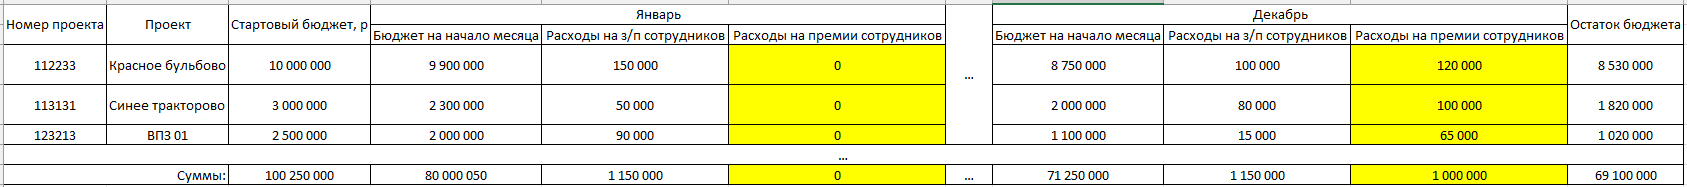
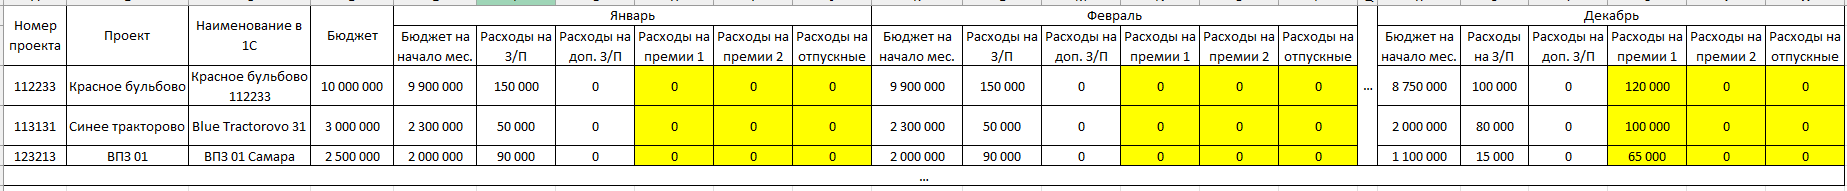
fixed many edits of technical specification

diff --git a/design/docs/algorithm/technical_specification.md b/design/docs/algorithm/technical_specification.md
@@ -36,29 +36,24 @@
 
 Сама таблица на этой странице является нередактируемой.
 ![Таблица з/п и премий сотрудников](/docs/table_salaries_bonuses_employees.png)
-Значения в таблице з/п сотрудника являются расчётными:
+Фактические значения "З/П" и "Доп. З/П" сотрудника в таблице являются расчётными:
 
-* для сотрудников на полной ставке - посчитанная з/п на руки по формуле:
-$$Salary + Additional\_ Salary,$$  
-где $Salary$ - номинальная з/п сотрудника, которая вносится на странице ["Номинальные заработные платы и премии сотрудников на руки"](#страница-номинальные-заработные-платы-и-премии-сотрудников-на-руки) в столбце "З/П";  
-$Additional\_ Salary$ - номинальная дополнительная з/п сотрудника, которая вносится на странице ["Номинальные заработные платы и премии сотрудников на руки"](#страница-номинальные-заработные-платы-и-премии-сотрудников-на-руки) в столбце " Доп. З/П";
-* для сотрудников на неполной ставке - посчитанная з/п на руки за месяц с учётом отработанных часов, она рассчитывается таким образом:  
-$$\frac{(Salary + Additional\_ Salary) \cdot Hours_{employee\_ month}}{Normal\_ hours_{month}},$$  
+* для сотрудников на полной ставке - З/П и Доп. З/П, которые вносятся на странице ["Номинальные заработные платы и премии сотрудников на руки"](#страница-номинальные-заработные-платы-и-премии-сотрудников-на-руки) в столбцы "З/П" и "Доп. З/П" соответственно;  
+* для сотрудников на неполной ставке - посчитанная З/П или Доп. З/П за месяц с учётом отработанных часов, которые рассчитываются таким образом:  
+$$\frac{(Salary\ or\ Additional\_ Salary) \cdot Hours_{employee\_ month}}{Normal\_ hours_{month}},$$  
 где $Salary$ - номинальная з/п сотрудника, которая вносится на странице ["Номинальные заработные платы и премии сотрудников на руки"](#страница-номинальные-заработные-платы-и-премии-сотрудников-на-руки) в столбце "З/П";  
 $Additional\_ Salary$ - номинальная дополнительная з/п сотрудника, которая вносится на странице ["Номинальные заработные платы и премии сотрудников на руки"](#страница-номинальные-заработные-платы-и-премии-сотрудников-на-руки) в столбце " Доп. З/П";  
 $Hours_{employee\_ month}$ - кол-во отработанных часов сотрудника за данный месяц;  
 $Normal\_ hours_{month}$ - кол-во рабочих часов за данный месяц для 40 ч. рабочей недели согласно производственному календарю.
 
-Значения премий считаются по формуле:
-$$Bonus1 + Bonus2,$$
-где $Bonus1$ - сумма премии 1 сотрудника, которая вносится на [странице "Номинальные заработные платы и премии сотрудников на руки"](#страница-номинальные-заработные-платы-и-премии-сотрудников-на-руки) в столбце "Премия 1";  
-$Bonus2$ - сумма премии 2 сотрудника, которая вносится на странице "Номинальные заработные платы и премии сотрудников на руки" в столбце "Премия 2".
-Значения отпускных отображаются ровно такими, какими их вводят на странице ["Номинальные заработные платы и премии сотрудников на руки"](#страница-номинальные-заработные-платы-и-премии-сотрудников-на-руки).
+Значения премий (Премия 1 и Премия 2) заполняются автоматически значениями со [страницы "Номинальные заработные платы и премии сотрудников на руки"](#страница-номинальные-заработные-платы-и-премии-сотрудников-на-руки) из столбцов "Премия 1" и "Премия 2" соответственно.
+
+Значения отпускных отображаются ровно такими, какими их вводят на странице ["Номинальные заработные платы и премии сотрудников на руки"](#страница-номинальные-заработные-платы-и-премии-сотрудников-на-руки) в столбце "Отпускные".
 
 Последним столбцом в таблице является средний доход сотрудника в месяц за показываемый период времени, который автоматически рассчитывается:
 $$Sum \_ salaries + Sum \_ bonuses + Sum \_ holiday \_ finance,$$  
-где $Sum \_ salaries$ - сумма фактических з/п за этот период времени;  
-$Sum \_ bonuses$ - сумма премий за этот период времени;  
+где $Sum \_ salaries$ - сумма фактических З/П и доп. З/П за этот период времени;  
+$Sum \_ bonuses$ - сумма премий 1 и премий 2 за этот период времени;  
 $Sum \_ holiday \_ finance$ - сумма отпускных за этот период времени.
 
 Внизу справа есть кнопки экспорта данной таблицы в формате xlsx, pdf: ![Footer export](/docs/footer_export.png)
@@ -73,11 +68,12 @@ $Sum \_ holiday \_ finance$ - сумма отпускных за этот пер
 
 [Данная страница](https://www.figma.com/design/InItq3Ywyfz5n2juZiQldq/Finance-projects-Redmine-Plugin?node-id=169-2) уже представляет собой редактируемую таблицу з/п на руки в месяц и премий на руки за месяц.
 Фильтры и сортировки в таблице сохраняются как на предыдущей странице; есть возможность их изменения.
-Каждое значение з/п и премии можно редактировать вручную.
-Однако в таблице значения з/п по месяцам заполняются автоматически, когда наступает каждый новый месяц. Например, на момент 31 января в таблице заполнена з/п за январь; при наступлении 1 февраля последняя указанная сумма з/п сотрудника за январь месяц автоматически записывается на з/п за февраль.
+Каждое значение З/П и премии можно редактировать вручную.
+Однако в таблице значения З/П и доп. З/П по месяцам заполняются автоматически, когда наступает каждый новый месяц.  
+Например, на момент 31 января в таблице заполнены З/П и доп. З/П за январь; при наступлении 1 февраля последние указанные суммы З/П и доп. З/П сотрудника за январь месяц автоматически записываются на З/П и доп. З/П за февраль соответственно.
 ![Редактируемая таблица з/п и премий сотрудников](/docs/edit_table_salaries_bonuses_employees.png)
 Столбец "Средний доход за данный период" отсутствует.
-Значения з/п для тех, кто на полной ставке и на неполной ставке, указываются такие, словно сотрудник работает на полной ставке.
+Значения З/П для тех, кто на полной ставке и на неполной ставке, указываются такие, словно сотрудник работает на полной ставке.
 Для этой страницы дополнительно справа есть кнопка:
 
 * Сохранить.
@@ -88,36 +84,62 @@ $Sum \_ holiday \_ finance$ - сумма отпускных за этот пер
 
 Представляет собой [страницу](https://www.figma.com/design/InItq3Ywyfz5n2juZiQldq/Finance-projects-Redmine-Plugin?node-id=48-2) с информацией в табличном виде, где показываются данные бюджетов проектов и их подпроектов.
 Все значения в данной таблице являются нередактируемыми.
-Первые столбцы являются атрибутами "Проектов", например, "Номер проекта", "Проект".
-Далее идёт столбец под названием "Стартовый бюджет", который является стартовым бюджетом проекта на старте этого проекта.
-Последующие столбцы идут по 3 штуки на каждый месяц:
+![Таблица финансов проектов](/docs/table_finances_projects.png)
+Первые столбцы являются атрибутами "Проектов", например, "Номер проекта", "Проект" и "Наименование в 1С".
+Далее идёт столбец под названием "Бюджет", который автоматически вычисляется:
+$$Start\_ budget + All\_ total\_ incomes,$$
+где $Start\_ budget$ - стартовый бюджет проекта;  
+$All\_ total\_ incomes$ - сумма всех иных статей доходов проекта на текущий момент.
 
-* Бюджет на начало месяца - вычисляется автоматически: $$Budget + Total\_ incomes - Total\_ expenses,$$  
-где $Budget$ - стартовый бюджет проекта;  
-$Total\_ incomes$ - сумма всех иных доходов проекта на момент начала данного месяца;  
-$Total\_ expenses$ - сумма всех трат проекта на момент начала данного месяца;
-* Расходы на з/п сотрудников - вычисляется автоматически сумма расходов на з/п сотрудников, которые имеют затраченное время на проекте в данном месяце:
+Далее идёт по 5 столбцов на каждый месяц в выбранном временном диапазоне:
+
+* Бюджет на начало мес. - бюджет проекта на начало месяца, который вычисляется автоматически:
+$$Start\_ budget + Total\_ incomes - Total\_ expenses,$$  
+где $Start\_ budget$ - стартовый бюджет проекта;  
+$Total\_ incomes$ - сумма всех иных статей доходов проекта на момент начала данного месяца;  
+$Total\_ expenses$ - сумма всех статей расходов проекта на момент начала данного месяца;
+* Расходы на З/П - вычисляется автоматически сумма статей расходов на з/п сотрудников, которые имеют затраченное время на проекте в данном месяце:
   * для сотрудников на полной ставке по формуле: $$\frac{Salary \cdot Hours_{project\_ month}}{Hours_{month}},$$  
-  где $Salary$ - номинальная з/п сотрудника;  
+  где $Salary$ - номинальная з/п сотрудника (из столбца "З/П" со страницы ["Номинальные заработные платы и премии сотрудников на руки"](#страница-номинальные-заработные-платы-и-премии-сотрудников-на-руки));  
   $Hours_{project\_ month}$ - кол-во отработанных часов сотрудника за данный месяц на проекте;  
   $Hours_{month}$ - кол-во отработанных часов сотрудника за данный месяц;
   * для сотрудников на неполной ставке по формуле: $$\frac{Salary \cdot Hours_{project\_ month}}{Normal\_ hours_{month}},$$  
-  где $Salary$ - номинальная з/п сотрудника, которая вносится на странице "Номинальные заработные платы и премии сотрудников на руки";  
+  где $Salary$ - номинальная з/п сотрудника (из столбца "З/П" со страницы ["Номинальные заработные платы и премии сотрудников на руки"](#страница-номинальные-заработные-платы-и-премии-сотрудников-на-руки));  
   $Hours_{project\_ month}$ - кол-во отработанных часов сотрудника за данный месяц на проекте;  
   $Normal\_ hours_{month}$ - кол-во рабочих часов за данный месяц для 40 ч. рабочей недели согласно производственному календарю;
-* Расходы на премии сотрудников - кол-во расходов в месяце данного проекта на выделение премий сотрудникам; задаваётся вручную на странице "Редактирование финансов проектов".
+* Расходы на доп. З/П - полностью аналогично "Расходам на З/П" для столбца "Доп. З/П" со страницы ["Номинальные заработные платы и премии сотрудников на руки"](#страница-номинальные-заработные-платы-и-премии-сотрудников-на-руки)
+* Расходы на премии 1 - сумма статей расходов на премии (Премии 1) сотрудников в месяце данного проекта - будет вноситься вручную пользователем;
+* Расходы на премии 2 - сумма статей расходов на премии (Премии 2) сотрудников в месяце данного проекта - будет вноситься вручную пользователем;
+* Расходы на отпускные - сумма статей расходов на отпускные сотрудников в месяце данного проекта - будет вноситься вручную пользователем;
 
-Последний столбец "Остаток бюджета" является значением остатка бюджета проекта на конец выбранного временного диапазона, т.е. на конец последнего месяца во временном диапазоне.
+Последними столбцами после всех месяце выбранного временной диапазона будут:
 
-В таблице можно:
+* Остаток бюджета на конец диапазона - остаток средств бюджета проекта на момент конца выбранного временного промежутка:
+$$Start\_ budget + Total\_ incomes_{end\_ time\_ interval} - Total\_ expenses_{end\_ time\_ interval},$$  
+где $Start\_ budget$ - стартовый бюджет проекта;  
+$Total\_ incomes_{end\_ time\_ interval}$ - сумма всех иных статей доходов проекта на момент конца выбранного временного промежутка;  
+$Total\_ expenses_{end\_ time\_ interval}$ - сумма всех статей расходов проекта на момент конца выбранного временного промежутка;
+* Расходы в диапазоне - сумма статей расходов за выбранный временной промежуток;
+* Итоговый остаток бюджета - остаток средств бюджета проекта на текущий момент:
+$$Start\_ budget + All\_ total\_ incomes - All\_ total\_ expenses,$$
+где $Start\_ budget$ - стартовый бюджет проекта;  
+$All\_ total\_ incomes$ - сумма всех иных статей доходов проекта на текущий момент;
+$All\_ total\_ expenses$ - сумма всех статей расходов проекта на текущий момент;
+* Итого затраты - сумма всех статей расходов проекта на текущий момент.
 
-* отфильтровать по месяцам (диапазон по умолчанию - текущий календарный год);
+В таблице можно через кнопки "Фильтры" и "Настройки" вверху страницы:
+
+* выбрать рассматриваемый временной промежуток (промежуток по умолчанию - текущий календарный год);
 * упорядочить значения списка проектов и отфильтровать список проектов и подпроектов;
 * выбрать какие столбцы атрибутов "Проектов" будут показываться в таблице (Номер проекта, Проект, Наименование в 1С и т.п.).
-В таблице отображаются как отдельные проекты, так и проекты с подпроектами (подпроекты вложены в родительский проект).
+
+Необходимо обеспечить ширины столбцов по умолчанию такие, чтобы на экране без прокрутки отображались данные по 2-3 месяцам.
+
+В таблице отображаются как отдельные проекты, так и проекты с подпроектами.
 
 Правила для проектов (родительских проектов) с подпроектами:
 
+* первым идёт родительский проект, а сразу после его подпроекты;
 * сгруппированы вместе;
 * значения столбцов "Стартовый бюджет", "Бюджет на начало месяца", "Расходы на з/п сотрудников" и др. для строки родительского проекта получаются суммированием соответствующих значений строк подпроектов данного родительского проекта.
 
@@ -129,24 +151,35 @@ $Total\_ expenses$ - сумма всех трат проекта на момен
 
 Внизу справа есть кнопки экспорта данной таблицы в формате xlsx, pdf.
 
-При нажатии на кнопку "Редактировать финансы проектов" открывается [страница "Редактирование финансов проектов"](https://www.figma.com/design/InItq3Ywyfz5n2juZiQldq/Finance-projects-Redmine-Plugin?node-id=191-14).
+При нажатии на кнопку "Редактировать финансы проектов" открывается страница "Редактирование финансов проектов".
 
-На странице "Редактирование финансов проектов" часть значений в таблице можно редактировать, а именно столбцы "Расходы на премии сотрудников". Данные ячейки выделяются другим цветом. Остальные ячейки заблокированы для изменения.
-Справа появляется дополнительная кнопка "Сохранить".
+### Страница "Редактирование финансов проектов"
 
-При нажатии на кнопку "Добавить доход в бюджет проекта" поверх открывается [всплывающее окно](https://www.figma.com/design/InItq3Ywyfz5n2juZiQldq/Finance-projects-Redmine-Plugin?node-id=213-2), в котором можно внести дополнительный доход в бюджет проекта. Для этого в появившемся окне есть следующие поля:
+Представляет собой [страницу](https://www.figma.com/design/InItq3Ywyfz5n2juZiQldq/Finance-projects-Redmine-Plugin?node-id=191-14) с таблицей, где часть значений в таблице можно редактировать.
+![Таблица редактирования финансов проектов](/docs/edit_table_finances_projects.png)
+
+Редактируемыми значениями являются выделенные желтым цветом значения, а точнее:
+
+* Расходы на премии 1;
+* Расходы на премии 2;
+* Расходы на отпускные.
+
+Остальные значения заблокированы для изменения.
+Справа имеется дополнительная кнопка "Сохранить".
+
+При нажатии на кнопку "Добавить статью дохода в бюджет проекта" поверх открывается [всплывающее окно](https://www.figma.com/design/InItq3Ywyfz5n2juZiQldq/Finance-projects-Redmine-Plugin?node-id=213-2), в котором можно внести дополнительную статью дохода в бюджет проекта. Для этого в появившемся окне есть следующие поля:
 
 * дата выделения статьи дохода проекта - обязательное поле;
-* выбор проекта, бюджет которого пополняем - обязательное поле;
-* в описании можно оставить комментарий - обязательное поле;
-* сумма дохода - обязательное поле.
+* выбор проекта (атрибут "Проект"), бюджет которого пополняем (через раскрывающийся список + возможность ручного ввода) - обязательное поле;
+* в описании должен быть указан текст, где должен быть указан номер документа или название работ, по которому вводится статья дохода - обязательное поле, справа есть соответствующая подсказка;
+* сумма статьи дохода - обязательное поле.
 
-При нажатии на кнопку "Добавить расход бюджета проекта" поверх открывается [всплывающее окно](https://www.figma.com/design/InItq3Ywyfz5n2juZiQldq/Finance-projects-Redmine-Plugin?node-id=220-38), в котором можно внести дополнительный расход бюджета проекта. Для этого в появившемся окне есть следующие поля:
+При нажатии на кнопку "Добавить статью расхода бюджета проекта" поверх открывается [всплывающее окно](https://www.figma.com/design/InItq3Ywyfz5n2juZiQldq/Finance-projects-Redmine-Plugin?node-id=220-38), в котором можно внести дополнительную статью расхода бюджета проекта. Для этого в появившемся окне есть следующие поля:
 
 * дата выделения статьи расхода бюджета проекта - обязательное поле;
-* выбор проекта, из бюджета которого вычитаем расход - обязательное поле;
-* в описании можно оставить комментарий - обязательное поле;
-* сумма расхода - обязательное поле.
+* выбор проекта (атрибут "Проект"), из бюджета которого вычитаем расход (через раскрывающийся список + возможность ручного ввода) - обязательное поле;
+* в описании должен быть указан текст, где должен быть указан номер документа или название работ, по которому вводится статья расхода - обязательное поле, справа есть соответствующая подсказка;
+* сумма статьи расхода - обязательное поле.
 
 ### Страница "Сводка финансов"
 
@@ -158,11 +191,15 @@ $Total\_ expenses$ - сумма всех трат проекта на момен
 Таблица представляет собой значения среднемесячного дохода каждого сотрудника за календарные года.
 ![Таблица среднемесячного дохода сотрудников](/docs/table_average_income_employees.png)
 Все значения в данной таблице являются нередактируемыми - автоматически вычисляются для каждого календарного года по формуле:
-$$\frac{Summ_{salaries\_year} + Summ_{bonuses\_year}}{12},$$  
+$$\frac{Summ_{salaries\_year} + Summ_{bonuses\_year}}{Num\_ months},$$  
 где $Summ_{salaries\_year}$ - сумма заработных плат сотрудника за этот календарный год;  
-$Summ_{bonuses\_year}$ - сумма премий сотрудника за этот календарный год.
+$Summ_{bonuses\_year}$ - сумма премий сотрудника за этот календарный год;  
+$Num\_ months$ - число прошедших полных месяцев этого календарного года:
 
-В таблице можно:
+* для предыдущих годов - 12;
+* для текущего года - кол-во прошедших полных месяцев, например, если текущая дата 18.04.2025, то для 2025 года количество полных прошедших месяцев будет равно 3.
+
+В таблице можно через кнопки "Фильтры" и "Настройки" вверху страницы:
 
 * выбрать диапазон рассматриваемых годов (диапазон по умолчанию - текущий и предыдущий календарный год);
 * фильтровать и сортировать значения списка сотрудников (по умолчанию, сортировка в алфавитном порядке по фамилии сотрудника, фильтр - участники группы "ТКЗ ИЦ СПб"):
